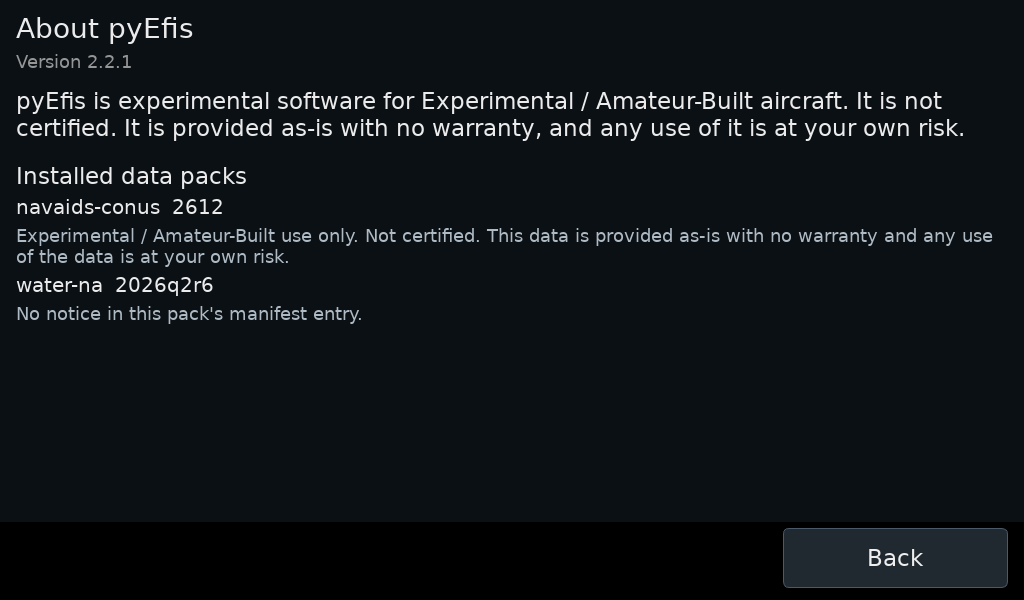
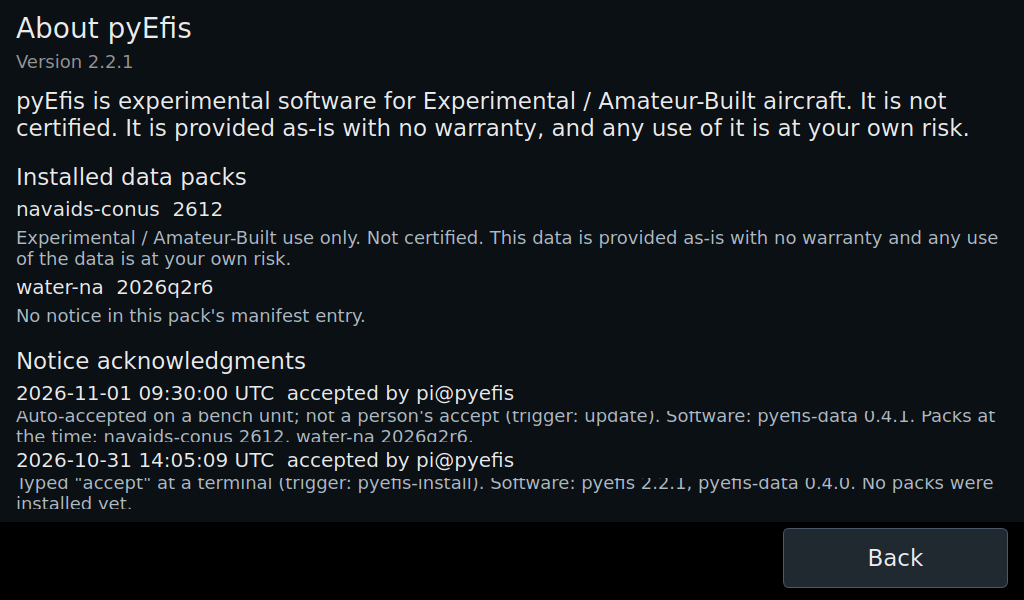
docs: About screen acknowledgment-history evidence (AER-4341)
render.py writes a sample schema-1 acknowledgment log and adds
about_history_1024x600.png, scrolled to the history; the existing About
and Data Status renders are regenerated from the same script on the
Beelink. bench_beelink_about_history.png renders the screen against the
Beelink's real status.json and acknowledgment log.

diff --git a/docs/images/about/render.py b/docs/images/about/render.py
@@ -73,7 +73,9 @@ for name, cls, kw in (
     host.show()
     app.processEvents()
     if name == "about_history_1024x600.png":
-        w.area.ensureWidgetVisible(w._ack_labels[-1])
+        app.processEvents()   # let the wrapped labels settle their heights
+        sb = w.area.verticalScrollBar()
+        sb.setValue(sb.maximum())
         app.processEvents()
     host.grab().save(os.path.join(out, name))
     print("wrote", name)

diff --git a/docs/images/about/README.md b/docs/images/about/README.md
@@ -3,6 +3,10 @@
 - `about_1024x600.png`: the bundled About screen. One pack carries the L1
   `notice`; the other (`water-na`) was published before the field existed and
   says so.
+- `about_history_1024x600.png`: the same screen scrolled to the L2 notice
+  acknowledgment history, newest first, against a sample log of two records
+  (a terminal accept at install, then a bench auto-accept labelled as not a
+  person's accept).
 - `datastatus_1024x600.png`: the Data Status screen with the new About button
   between Continue and Update.
 
@@ -11,8 +15,15 @@
   `35f606c`, then the About screen after a tap on About at `a894867`. Every
   installed pack there predates the L1 field, so each says it has no notice.
 
-The first two are offscreen Qt renders against a sample `status.json` (in the script),
-not bench captures. Regenerate:
+- `bench_beelink_about_history.png`: an offscreen render of `284b9ec` ON the
+  Beelink against that box's REAL files: its `status.json` (packs now carry
+  the L1 notice) and its real acknowledgment log
+  (`~/.local/state/makerplane/acknowledgments.jsonl`, two records written by
+  `pyefis-data`), scrolled to the bottom. Not a capture of the live display.
+
+The `*_1024x600.png` images are offscreen Qt renders against a sample
+`status.json` and acknowledgment log (in the script), not bench captures.
+Regenerate:
 
 ```bash
 QT_QPA_PLATFORM=offscreen PYTHONPATH=src \
@@ -26,3 +37,10 @@ differ slightly from the panel's DejaVu Sans Condensed.
 The bench captures came from `bench-deploy.sh --ref aer-4341/about-system-screen`,
 then a `pyefis.service` restart, `ffmpeg -f x11grab` of the boot frame,
 `xdotool` click at (0.50w, 0.90h) on About, and a second grab.
+
+`bench_beelink_about_history.png` came from a throwaway clone at
+`~/bench-scratch/aer-4341-ackhist` on the Beelink (the live checkout was not
+touched), run with `QT_QPA_PLATFORM=offscreen PYTHONPATH=src
+~/pyefis-venv/bin/python` on a script that builds `about.AboutSystem(host)`
+with its default paths in a black 1024x600 host, processes events, sets the
+scroll area's vertical scrollbar to its maximum, and saves `host.grab()`.
